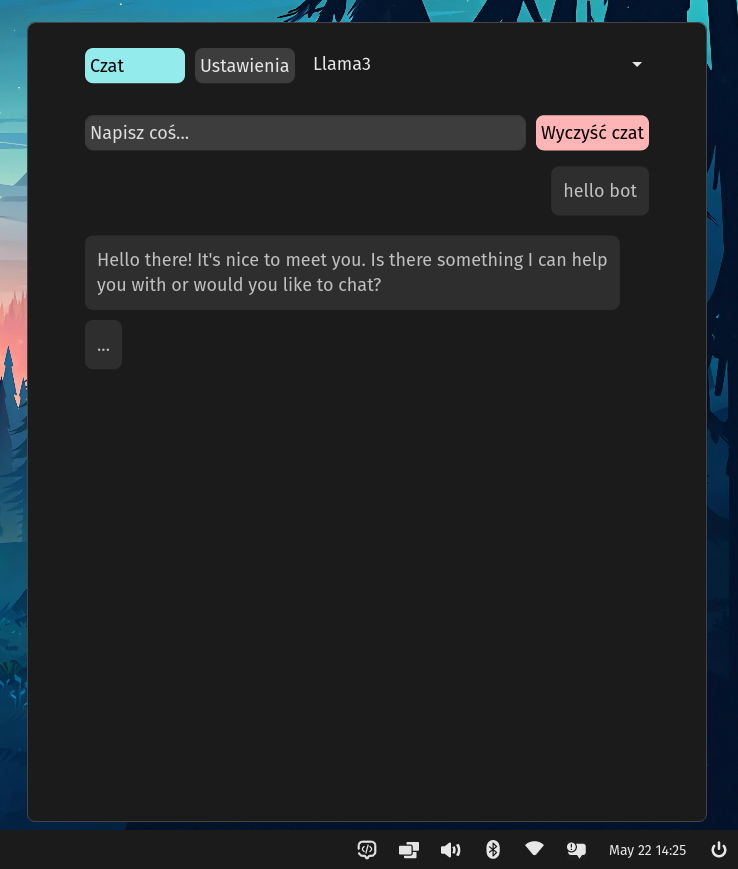
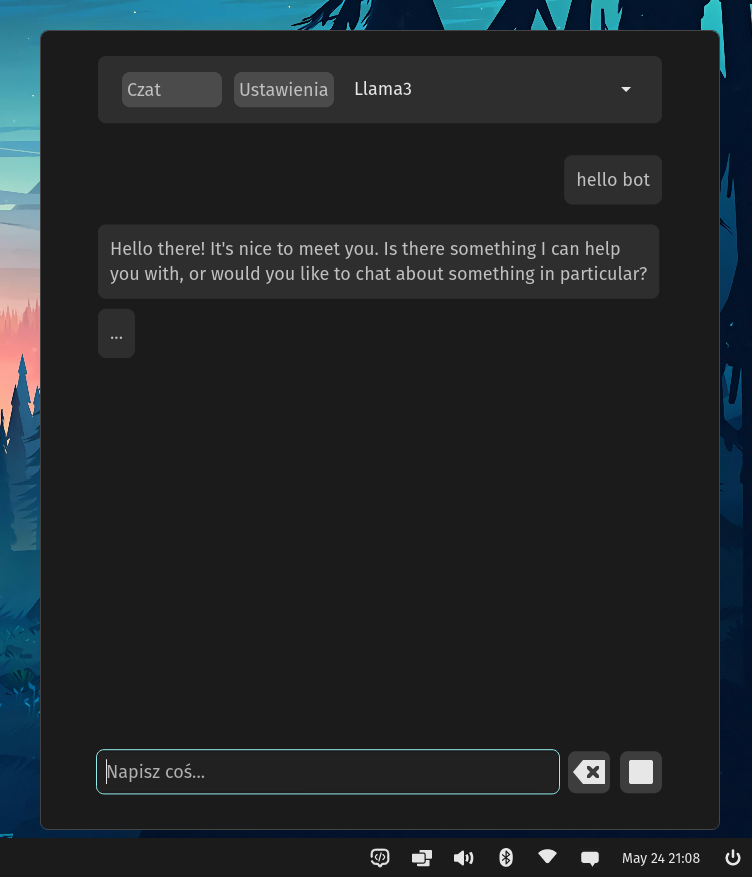
update screenshots and readme

diff --git a/README.md b/README.md
@@ -1,7 +1,10 @@
 <div align="center">
   <h1>COSMIC Applet for Ollama chat</h1>
   <br>
-  <img alt="chat" src="https://github.com/elevenhsoft/cosmic-applet-ollama/blob/main/screenshots/chat.png" width="280">
+  <div>
+    <img alt="chat" src="https://github.com/elevenhsoft/cosmic-applet-ollama/blob/main/screenshots/chat.png" width="280">
+    <img alt="settings" src="https://github.com/elevenhsoft/cosmic-applet-ollama/blob/main/screenshots/settings.png" width="280">
+  </div>
 </div>
 
 Before using this applet, you must have Ollama installed on your system. To do this, run this in your terminal:
